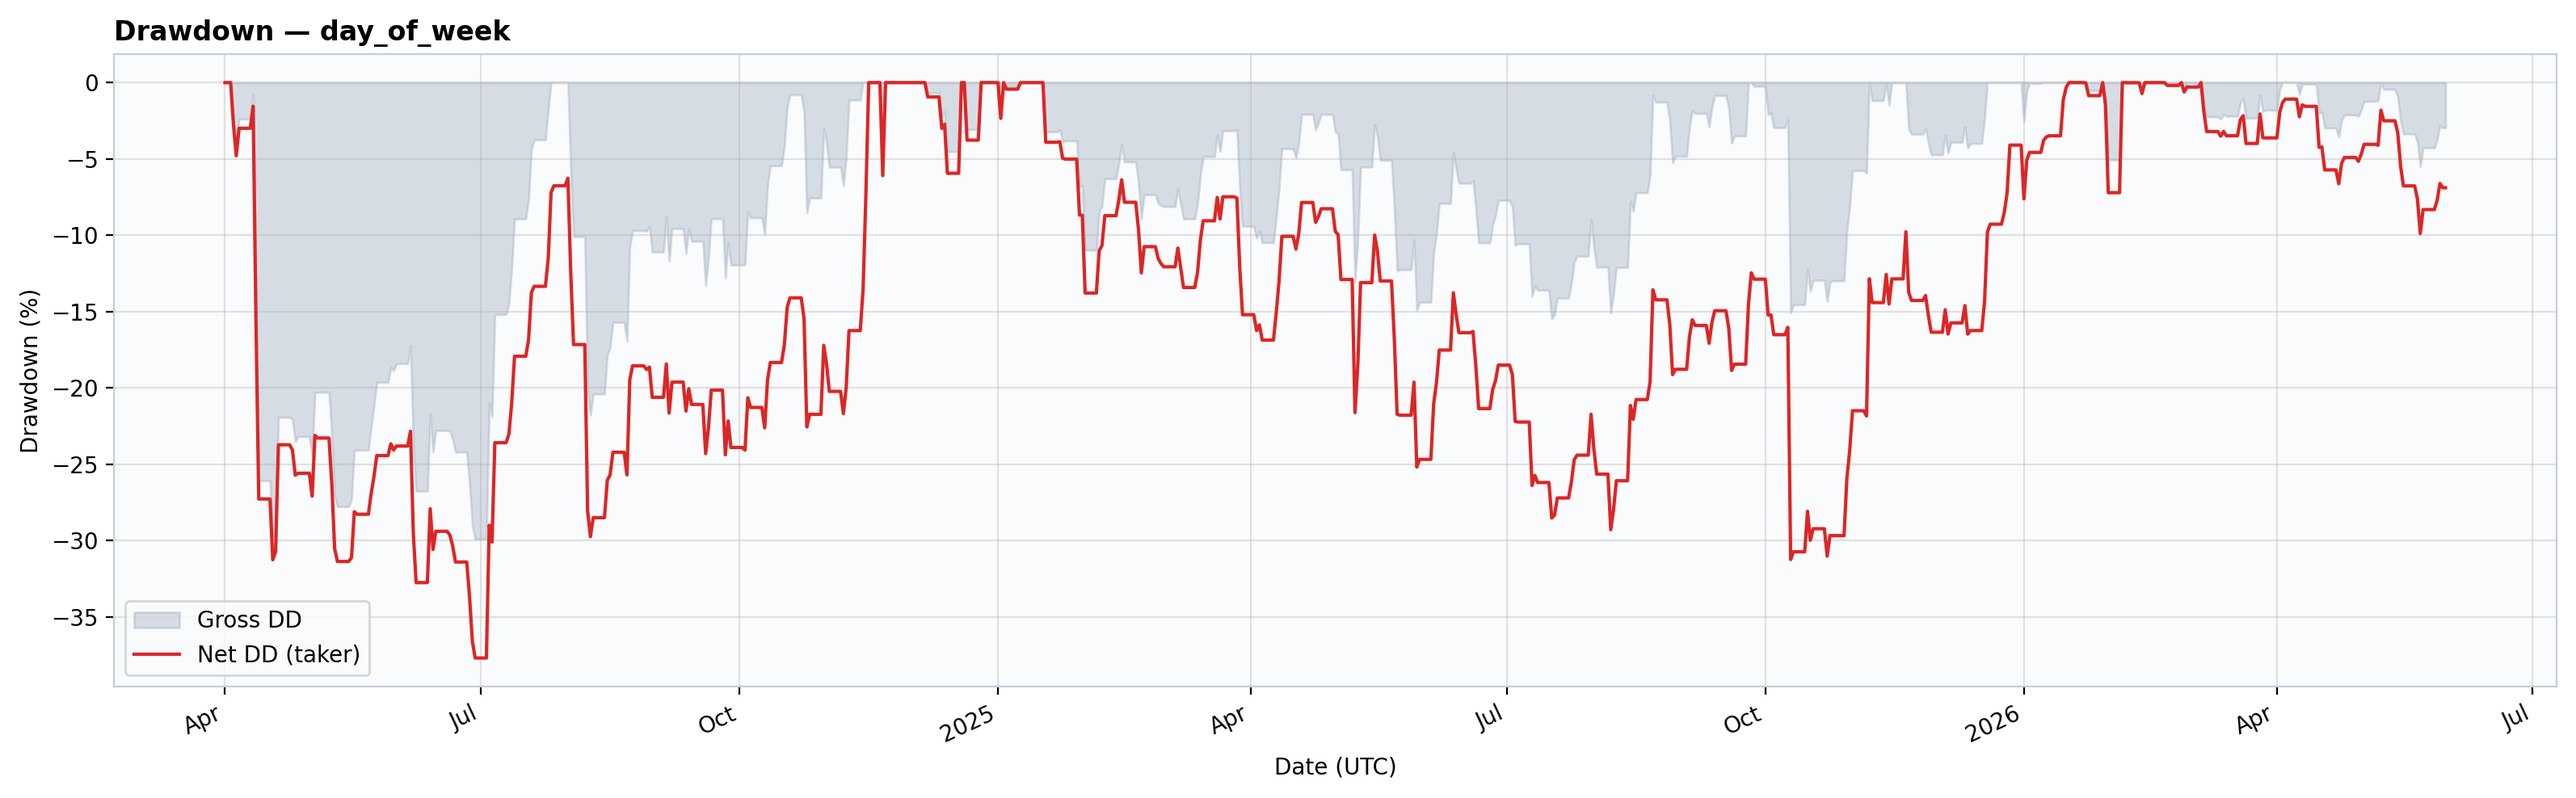
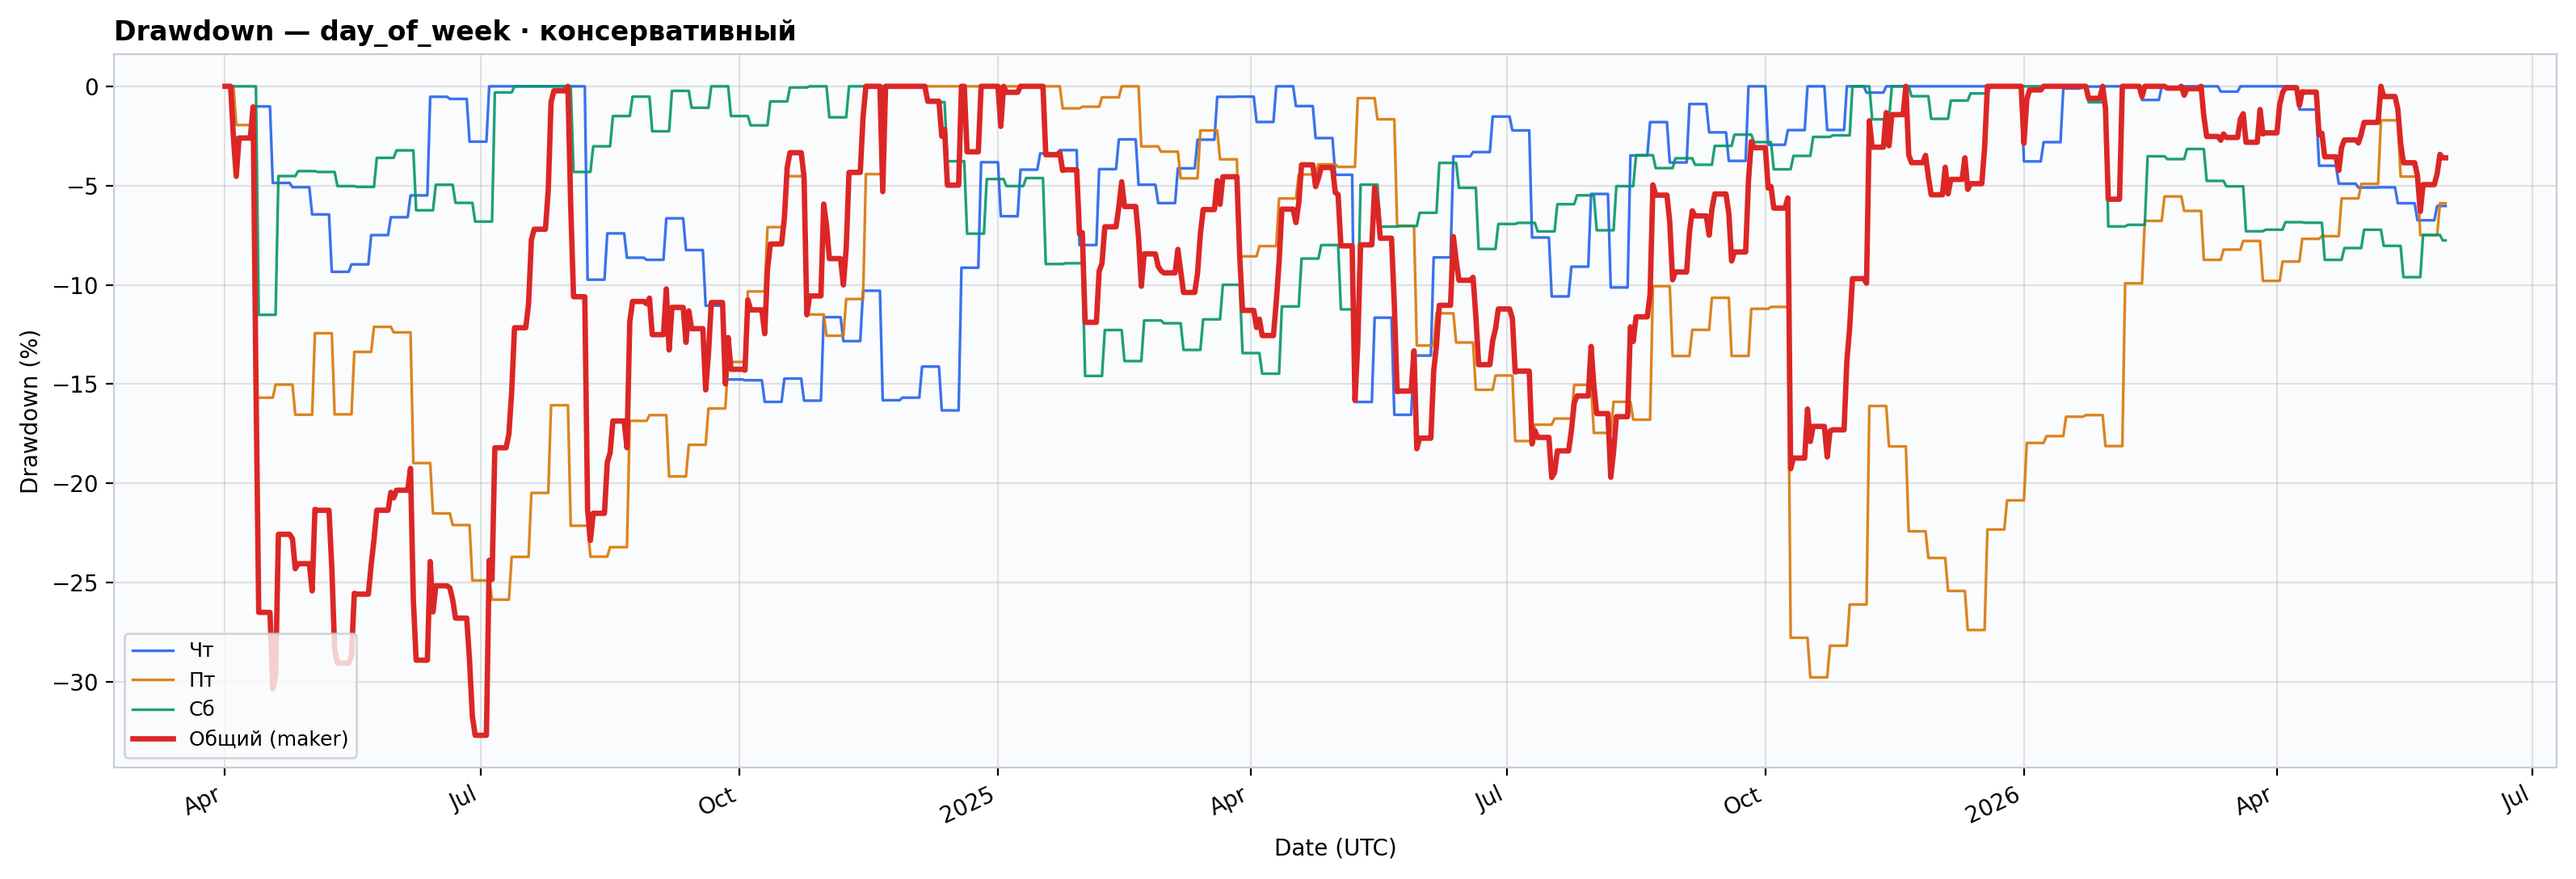
updated README.md: added plots

diff --git a/utils/backtest/plots.py b/utils/backtest/plots.py
@@ -27,6 +27,13 @@ COLOR_BTC = "#cbd5e1"
 LW_MAKER = 2.4
 LW_TAKER = 1.5
 LW_BENCH = 1.3
+LW_WEEKDAY_DD = 1.2
+
+WEEKDAY_DD_COLORS: dict[int, str] = {
+    3: "#2563eb",  # Чт
+    4: "#d97706",  # Пт
+    5: "#059669",  # Сб
+}
 
 
 def _apply_style() -> None:
@@ -169,25 +176,58 @@ def save_equity_curve_plot(
     return path
 
 
+def _drawdown_for_weekday(
+    returns: np.ndarray,
+    weekdays: np.ndarray,
+    target_wd: int | None,
+) -> np.ndarray:
+    if target_wd is not None:
+        returns = _returns_on_weekday_only(returns, weekdays, target_wd)
+    return drawdown_series(returns)
+
+
 def save_drawdown_plot(
     portfolio: pl.DataFrame,
     *,
     strategy: str,
+    trading_weekdays: tuple[int, ...] = (3, 4, 5),
+    scenario_label: str | None = None,
     path: Path,
 ) -> Path:
     _apply_style()
     dates = portfolio["day_utc"].to_numpy()
-    dd_net = drawdown_series(portfolio["net_return_pct"].to_numpy())
-    dd_gross = drawdown_series(portfolio["gross_return_pct"].to_numpy())
+    weekdays = portfolio["weekday"].to_numpy()
+    maker = portfolio["net_maker_return_pct"].fill_null(0.0).to_numpy()
+    dd_total = _drawdown_for_weekday(maker, weekdays, None)
 
-    fig, ax = plt.subplots(figsize=(FIG_W, 5.0), dpi=PLOT_DPI)
-    ax.fill_between(dates, dd_gross, 0, color="#94a3b8", alpha=0.35, label="Gross DD")
-    ax.plot(dates, dd_net, color="#dc2626", linewidth=1.5, label="Net DD (taker)")
+    fig, ax = plt.subplots(figsize=(FIG_W, 5.5), dpi=PLOT_DPI)
+    for wd in trading_weekdays:
+        dd_wd = _drawdown_for_weekday(maker, weekdays, wd)
+        color = WEEKDAY_DD_COLORS.get(wd, "#64748b")
+        ax.plot(
+            dates,
+            dd_wd,
+            color=color,
+            linewidth=LW_WEEKDAY_DD,
+            label=WEEKDAY_NAMES[wd],
+            alpha=0.9,
+        )
+    ax.plot(
+        dates,
+        dd_total,
+        color=COLOR_MAKER,
+        linewidth=LW_MAKER,
+        label="Общий (maker)",
+        zorder=5,
+    )
     ax.set_ylabel("Drawdown (%)")
     ax.set_xlabel("Date (UTC)")
-    ax.set_title(f"Drawdown — {strategy}", loc="left", fontweight="semibold")
+    title_line = f"Drawdown — {strategy}"
+    if scenario_label:
+        title_line = f"{title_line} · {scenario_label}"
+    ax.set_title(title_line, loc="left", fontweight="semibold")
     ax.grid(True, alpha=0.35)
-    ax.legend(loc="lower left")
+    ax.legend(loc="lower left", fontsize=9)
     format_date_axis(ax, rotate=25)
     fig.tight_layout()
     path.parent.mkdir(parents=True, exist_ok=True)

diff --git a/utils/backtest/strategies/day_of_week.py b/utils/backtest/strategies/day_of_week.py
@@ -269,6 +269,8 @@ def run_day_of_week_backtest(
     save_drawdown_plot(
         portfolio,
         strategy=STRATEGY_NAME,
+        trading_weekdays=TRADING_WEEKDAYS,
+        scenario_label=scenario_labels.get(ctx.scenario),
         path=backtest_drawdown_plot_path(*tag_args, **path_kw),
     )
     save_returns_histogram_plot(

diff --git a/README.md b/README.md
@@ -230,6 +230,17 @@ Out-of-sample период совпадает с **val-окном** исслед
 - **Пятница** — наименьший Sharpe и наибольшая просадка среди торговых дней; **отрицательная skewness (−1.11)** указывает на риск редких крупных убытков (худший день портфеля: **−23.4%**, 2025-10-10, Пт).
 - **Корреляция Пт ↔ Сб** (net maker, ISO-week): **+0.41** — умеренная, не полная диверсификация между long-днями.
 
+**Рис. 4. Drawdown — оптимистичный сценарий** — общий (жирная красная, net maker) и вклад по дням (Чт / Пт / Сб). Глубокая просадка ~−30% (окт 2025) — в основном вклад **пятницы**.
+
+![Drawdown — оптимистичный](research_outputs/day_of_week/backtest/plots/drawdown_optimistic_thu33_pt31_sb23_20240401_20260531.png)
+
+```bash
+cd crypto_research
+python3 backtester.py day_of_week --scenario optimistic
+```
+
+→ `research_outputs/day_of_week/backtest/plots/drawdown_optimistic_thu33_pt31_sb23_20240401_20260531.png`
+
 #### Распределение и tail-risk (оптимистичный, net maker, торговые дни)
 
 | Показатель       | Значение |
@@ -243,11 +254,16 @@ Out-of-sample период совпадает с **val-окном** исслед
 
 Отрицательная асимметрия и повышенный эксцесс: хвостовые убытки тяжелее, чем в нормальном распределении; это согласуется с экстремальным днём −23.4% (Пт, 2025-10-10).
 
-#### Графики (drawdown и распределение)
-
-![Drawdown — оптимистичный](research_outputs/day_of_week/backtest/plots/drawdown_optimistic_thu33_pt31_sb23_20240401_20260531.png)
+**Рис. 5. Распределение дневных доходностей — оптимистичный сценарий** — только торговые дни (gross и net taker).
 
 ![Распределение доходностей — оптимистичный](research_outputs/day_of_week/backtest/plots/returns_hist_optimistic_thu33_pt31_sb23_20240401_20260531.png)
+
+```bash
+cd crypto_research
+python3 backtester.py day_of_week --scenario optimistic
+```
+
+→ `research_outputs/day_of_week/backtest/plots/returns_hist_optimistic_thu33_pt31_sb23_20240401_20260531.png`
 
 #### Ограничения и риски
 
@@ -263,9 +279,10 @@ Out-of-sample период совпадает с **val-окном** исслед
 
 Перед аллокацией капитала целесообразны: **paper trading / forward test** (минимум один полный цикл Чт–Пт–Сб на live-исполнении), мониторинг стабильности отобранных пар и отдельная оценка риска **пятничного** leg.
 
-Запуск бэктестов:
+Запуск бэктестов (отчёт `.log` + все графики в `research_outputs/day_of_week/backtest/plots/`):
 
 ```bash
+cd crypto_research
 python3 backtester.py day_of_week --scenario conservative   # консервативный
 python3 backtester.py day_of_week --scenario optimistic     # оптимистичный
 ```
